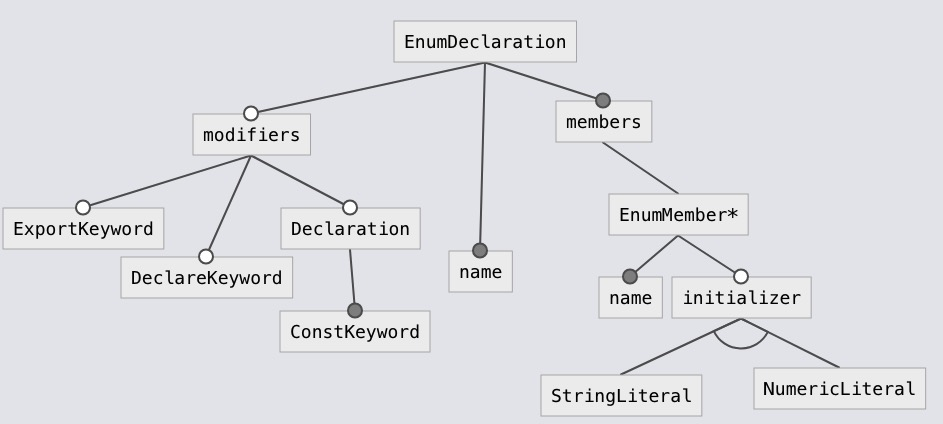
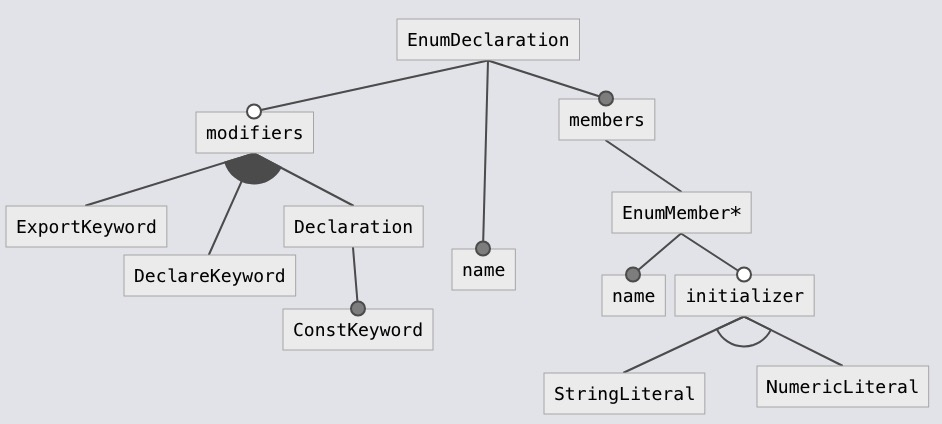
enum things

diff --git a/groupMembersModel/enum/code.ts b/groupMembersModel/enum/code.ts
@@ -5,19 +5,17 @@ export const EnumDeclaration: FeatureModel = {
   children: [
     {
       name: "modifiers",
+      childrenRelation: "or",
       children: [
         {
           name: "ExportKeyword",
-          parentRelation: "optional",
         },
         {
           name: "DeclareKeyword",
-          parentRelation: "optional",
         },
         {
           name: "Declaration",
           children: [{ name: "ConstKeyword", parentRelation: "mandatory" }],
-          parentRelation: "optional",
         },
       ],
       parentRelation: "optional",

diff --git a/groupMembersModel/enum/tests.md b/groupMembersModel/enum/tests.md
@@ -1,0 +1,60 @@
+# Enum Tests
+
+Enums consist of members, name and modifiers.
+We explore all combinations and come up with all tests.
+
+## Usage
+
+We will use enums in the client by exporting an enum with a single element (outside of the second enum member test) and ensuring that this element prints an identifiable value (exists) in all tests
+
+## Declaration
+
+The declaration can be deleted or a new one can be added, resulting in 2 test cases.
+
+## Modifiers
+
+### States
+
+1.  None
+2.  Export
+3.  Const
+4.  Declare
+5.  Export Declare
+6.  Export Const
+7.  Declare Const
+8.  Export Declare Const
+
+As a formula, this is 2^n for n = elements in the (sub)model
+
+### Changes
+
+The changes are the changes from each state to another.
+The count of them is 8 (states) \* 7 (possible new states) = 56
+We will consider an enum with a single element for all tests
+
+## Name
+
+The name is the same.
+If the name changes, this is now a new element, so no tests need to be done here.
+
+## Members
+
+The members are a list.
+Adding and removing an Enum Member = 2 test cases \* 8 modifier states = 16 test cases
+
+### EnumMember
+
+Enum Members themselves have elements - name and optional initializer.
+
+#### Name
+
+Changing an element's name - 1 case \* 8 modifiers = 8 tests
+
+#### Initializer
+
+Adding and removing an initializer = 2 cases \* 8 modifiers = 16 tests
+Changing an Initializer from string to number and number to string = 2 cases \* 8 modifier states = 16 tests
+
+## Total
+
+2 declaration + 56 modifiers + 16 enum members + 8 member name + (16 + 16) member initializer = 114 test cases
